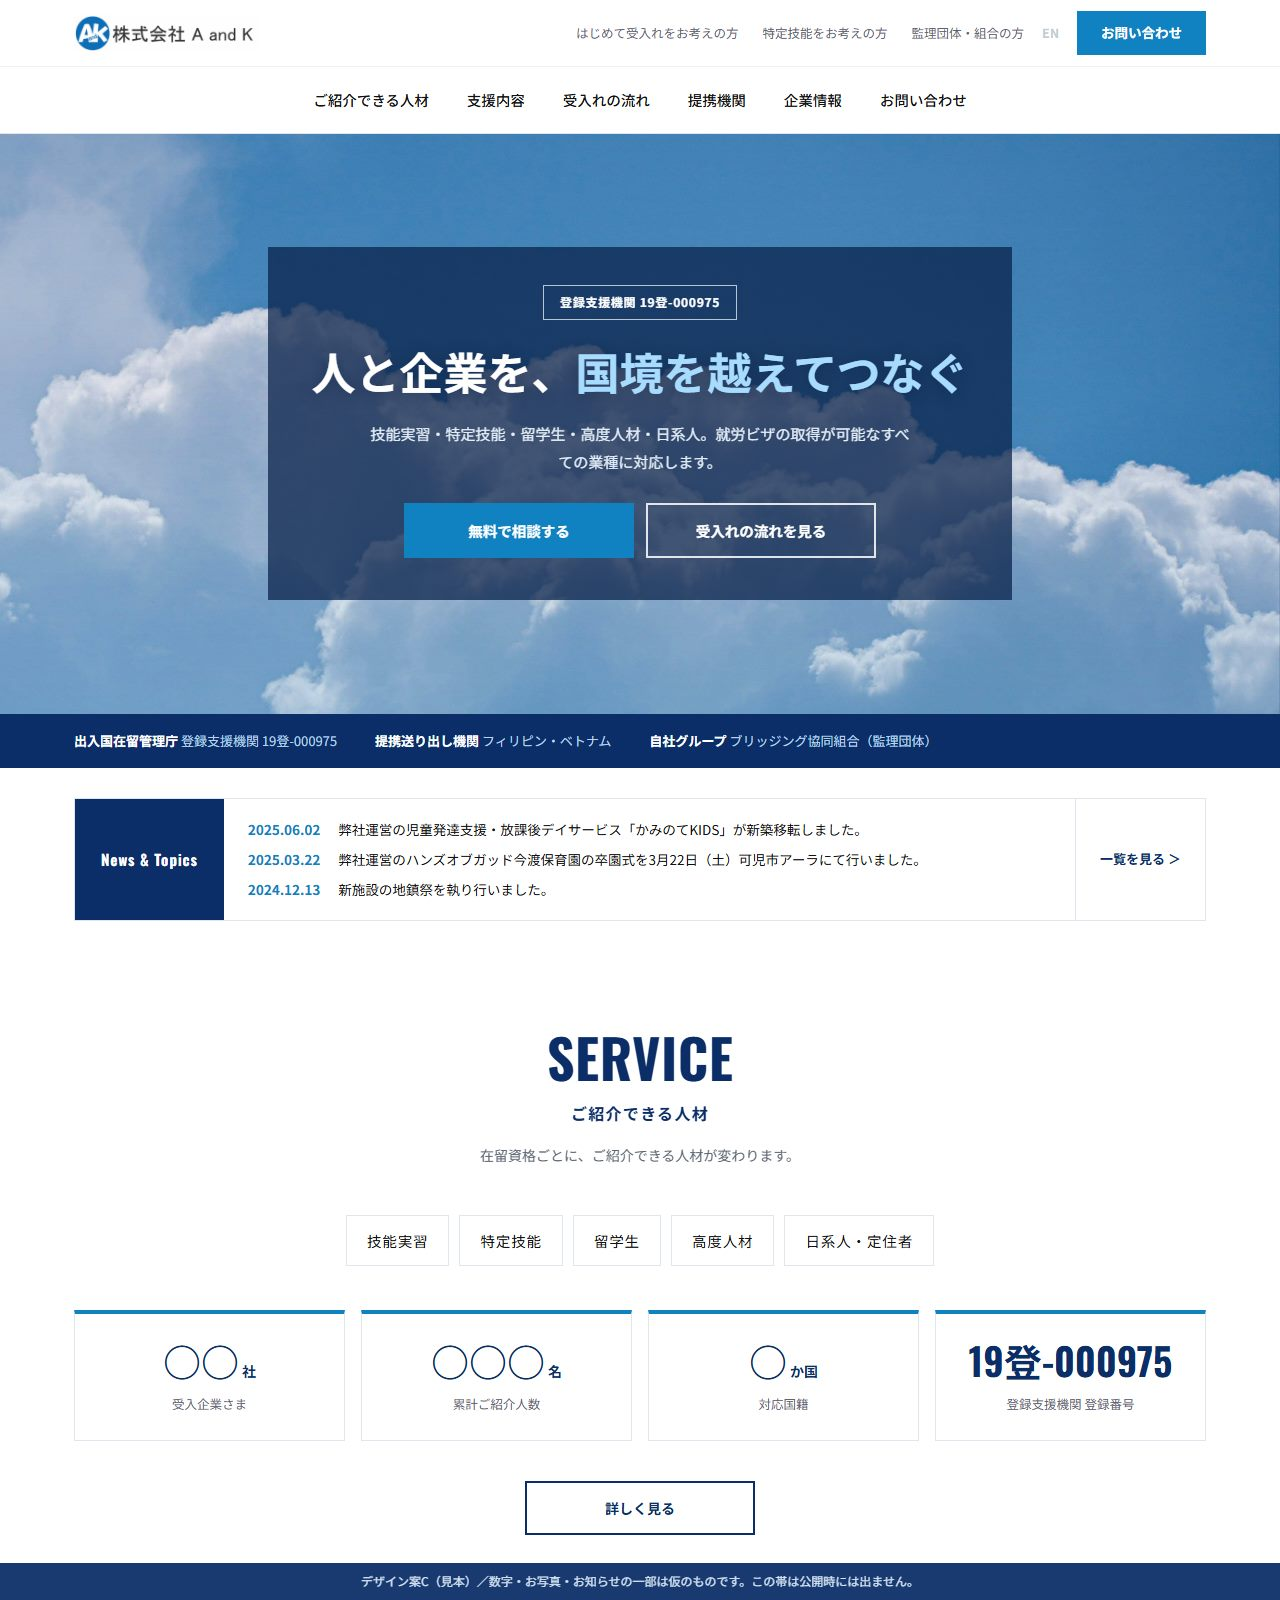
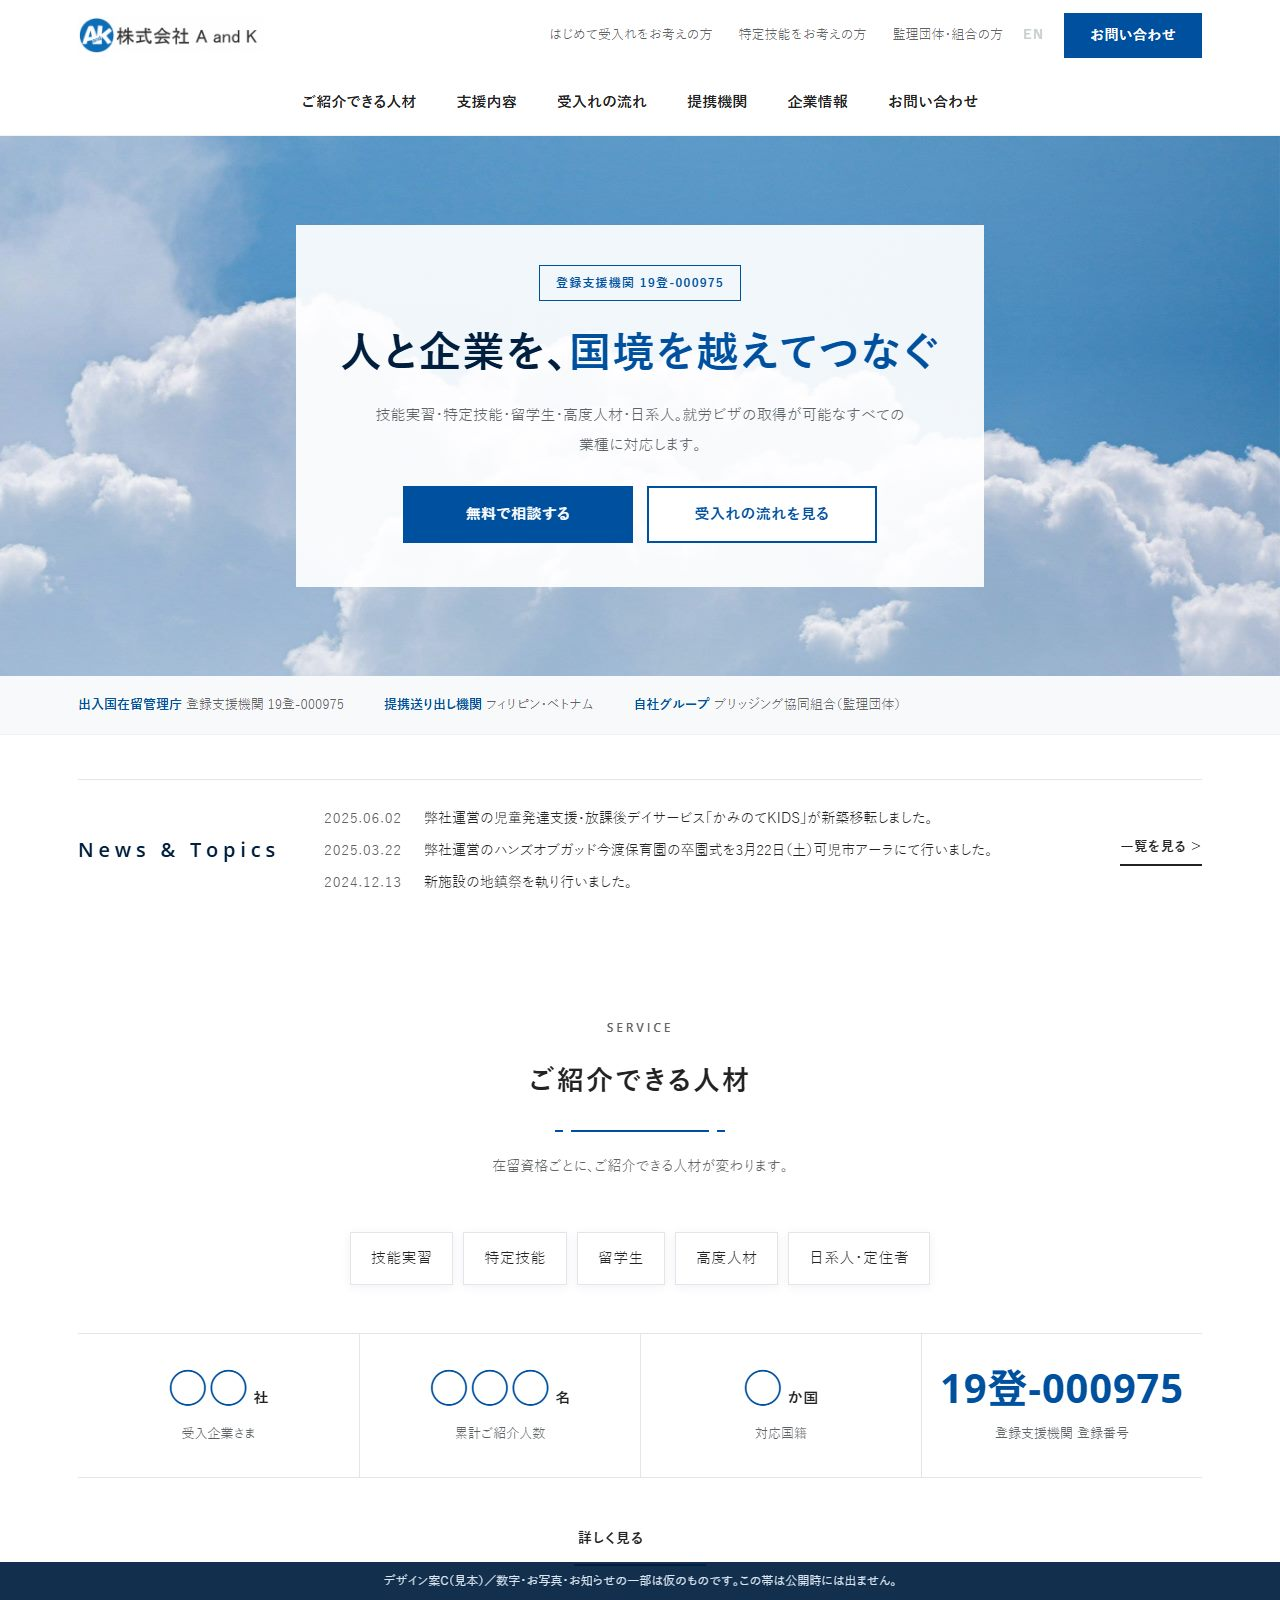
案Cの差し替えを提案書に反映（ディンプル参考のデザインへ）
- プレビュー画像を撮り直し
- 「3案のちがい」の案Cの説明を、白基調・広い余白・字間の広い英字に書き換え

Claude-Session: https://claude.ai/code/session_0116dyT9ic57gVgTruFCXQrC

diff --git a/index.html b/index.html
@@ -751,8 +751,8 @@
         <p>
           <strong>案A</strong>は見出しに明朝体を使い、余白をゆったり取りました。落ち着いた印象になります。
           <strong>案B</strong>はゴシック体で情報を詰め、一度に見渡せるようにしています。
-          <strong>案C</strong>は濃紺を基調に、英字の見出しを大きく置きました。お写真を全幅で使う帯があり、
-          3案の中でいちばん写真が主役になります。
+          <strong>案C</strong>は白と余白を広く取り、英字の見出しを字間を空けて置きました。
+          線と影だけで組み立てた、3案の中でいちばん軽い見た目です。
           こちらも中身と順番は3案とも同じで、見た目だけが違います。
         </p>
       </div>

diff --git a/src/design-all.html b/src/design-all.html
@@ -728,8 +728,8 @@
         <p>
           <strong>案A</strong>は見出しに明朝体を使い、余白をゆったり取りました。落ち着いた印象になります。
           <strong>案B</strong>はゴシック体で情報を詰め、一度に見渡せるようにしています。
-          <strong>案C</strong>は濃紺を基調に、英字の見出しを大きく置きました。お写真を全幅で使う帯があり、
-          3案の中でいちばん写真が主役になります。
+          <strong>案C</strong>は白と余白を広く取り、英字の見出しを字間を空けて置きました。
+          線と影だけで組み立てた、3案の中でいちばん軽い見た目です。
           こちらも中身と順番は3案とも同じで、見た目だけが違います。
         </p>
       </div>
